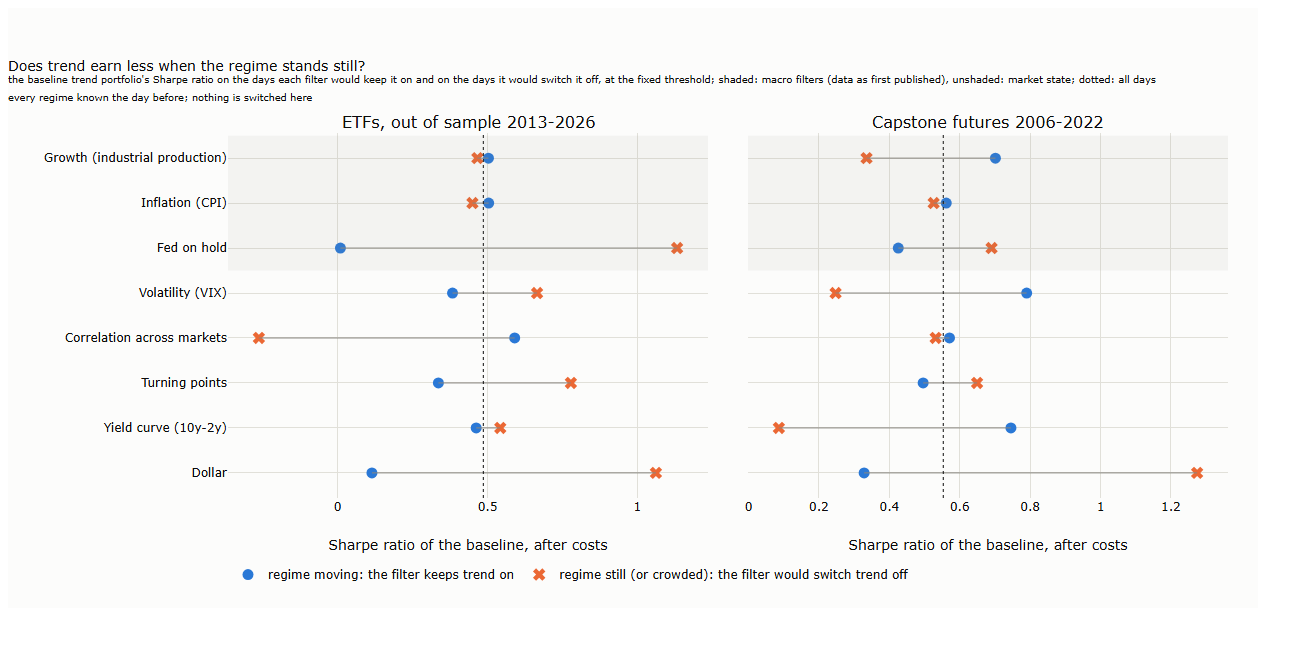
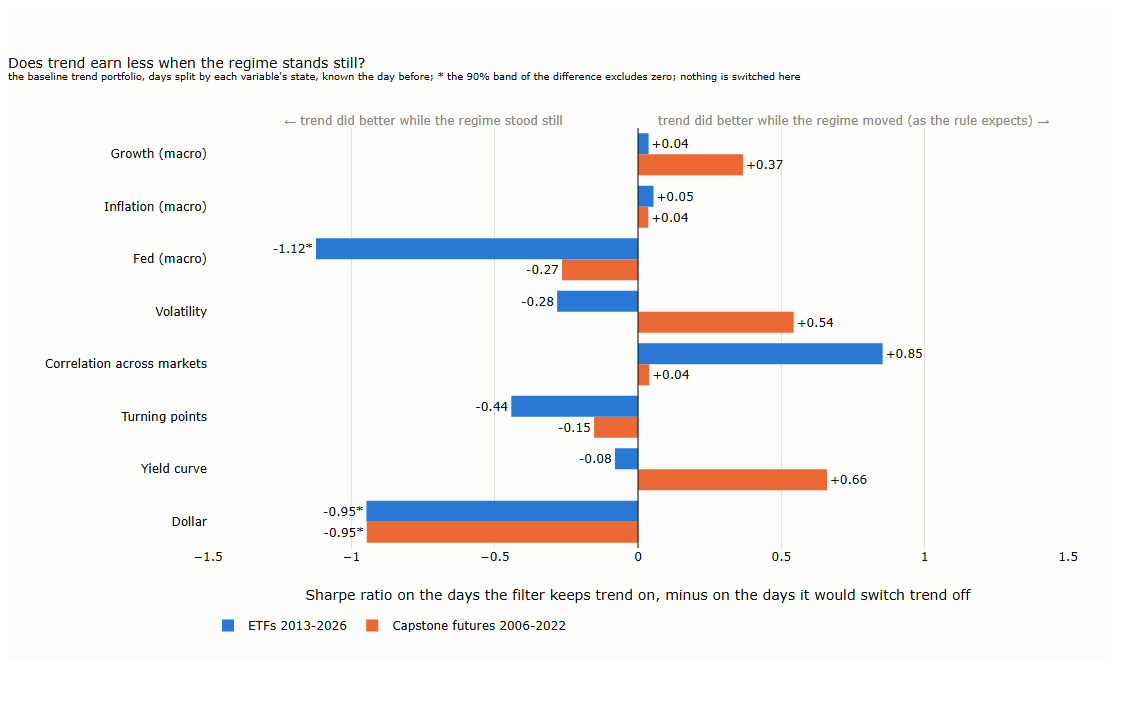
L28: scan, filter and clock charts simplified (plain bars; one-crisis volatility clock); captions and reading guide to match

diff --git a/lectures/28-part-time-strategies/scripts/l28_charts.py b/lectures/28-part-time-strategies/scripts/l28_charts.py
@@ -1,0 +1,81 @@
+"""Lecture 28, simple result charts read from the saved results (run l28_scan.py, l28_filters.py first):
+  28_scan.png    §4: per variable, Sharpe ratio while the regime moves minus while it stands still; ETFs and futures; star = 90% band excludes zero.
+  28_filters.png §5: per filter, the share of its 1,000 random switches (same time in the market) it beats; lines at 50% and 90%.
+  28_clock.png   §6.3: the volatility quadrants as a clock, with the 2008-2009 crisis month by month."""
+import json, sys
+from pathlib import Path
+import numpy as np, pandas as pd
+import plotly.graph_objects as go
+sys.path.insert(0, str(Path(__file__).resolve().parent)); import l28 as L
+from l28_filters import FAMILIES, KIND, LEVELS, FIXED, NAMES
+from l28_regime_charts import series
+from trading_models.plotting import INK, MUTED, SERIES, apply_theme, save_figure
+L26 = L.L26
+DS = (("etf", "ETFs 2013-2026", SERIES[0]), ("futures", "Capstone futures 2006-2022", SERIES[1]))
+
+
+def scan():
+    S = json.loads((L.RESULTS / "scan.json").read_text(encoding="utf-8"))
+    rows = (("growth", "Growth (macro)"), ("inflation", "Inflation (macro)"), ("fed", "Fed (macro)"), ("volatility", "Volatility"),
+            ("correlation", "Correlation across markets"), ("turning", "Turning points"), ("curve", "Yield curve"), ("dollar", "Dollar"))
+    fig = go.Figure()
+    for tag, name, col in DS:
+        d = [S[tag][k]["diff"] for k, _ in rows]
+        star = ["*" if (S[tag][k]["ci90"][0] > 0 or S[tag][k]["ci90"][1] < 0) else "" for k, _ in rows]
+        fig.add_bar(y=[n for _, n in rows], x=d, orientation="h", name=name, marker_color=col, text=[f"{v:+.2f}{s}" for v, s in zip(d, star)],
+                    textposition="outside", textfont=dict(color=INK, size=12))
+    fig.add_vline(x=0, line=dict(color=INK, width=1))
+    fig.add_annotation(x=0.75, y=1.04, yref="paper", text="trend did better while the regime moved (as the rule expects) →", showarrow=False, font=dict(color=MUTED, size=12))
+    fig.add_annotation(x=-0.75, y=1.04, yref="paper", text="← trend did better while the regime stood still", showarrow=False, font=dict(color=MUTED, size=12))
+    fig.update_yaxes(autorange="reversed")
+    fig.update_xaxes(title_text="Sharpe ratio on the days the filter keeps trend on, minus on the days it would switch trend off", range=[-1.5, 1.5])
+    fig.update_layout(title="Does trend earn less when the regime stands still?<br><sup>the baseline trend portfolio, days split by each variable's state, known the day before; "
+                            "* the 90% band of the difference excludes zero; nothing is switched here</sup>",
+                      barmode="group", height=650, width=1100, margin=dict(t=120, l=200, r=40, b=110), legend=dict(orientation="h", y=-0.15, x=0))
+    save_figure(fig, L.PREFIX + "28_scan", L.FIG)
+
+
+def filters():
+    F = json.loads((L.RESULTS / "filters.json").read_text(encoding="utf-8")); fx = lambda k: LEVELS[KIND[k]][FIXED] if k in KIND else "third"
+    ks = [k for v in FAMILIES.values() for k in v]; lab = [NAMES[k] for k in ks]
+    fig = go.Figure()
+    for tag, name, col in DS:
+        b = [F["datasets"][tag][k][fx(k)]["beaten"] for k in ks]
+        fig.add_bar(y=lab, x=b, orientation="h", name=name, marker_color=col, text=[f"{v:.0%}" for v in b], textposition="outside", textfont=dict(color=INK, size=12))
+    fig.add_vline(x=0.5, line=dict(color=MUTED, width=1.5, dash="dot")); fig.add_vline(x=0.9, line=dict(color=INK, width=1.5, dash="dash"))
+    fig.add_annotation(x=0.5, y=1.03, yref="paper", text="a coin: 50%", showarrow=False, font=dict(color=MUTED, size=12))
+    fig.add_annotation(x=0.9, y=1.03, yref="paper", text="the bar to clear: 90%", showarrow=False, font=dict(color=INK, size=12))
+    fig.update_yaxes(autorange="reversed")
+    fig.update_xaxes(title_text="share of 1,000 random switches (same time in the market) that the filter beats", tickformat=".0%", range=[0, 1.08])
+    fig.update_layout(title="Regime filters against luck<br><sup>a filter works if it clears 90% on both datasets and passes the multiple-testing correction; none does</sup>",
+                      barmode="group", height=780, width=1100, margin=dict(t=120, l=200, r=40, b=110), legend=dict(orientation="h", y=-0.1, x=0))
+    save_figure(fig, L.PREFIX + "28_filters", L.FIG)
+
+
+def clock():
+    B = pd.read_parquet(L.OUT / "l28_base.parquet"); base = B["futures"].dropna().loc[L.FUT_START:L.END["futures"]]
+    l, avg, ch, q = series("futures", "volatility", base); x = np.log(l / avg)
+    WORDS = {"below rising": "Calm, nerves building", "above rising": "Stress building", "above falling": "Stress fading", "below falling": "Calm, getting calmer"}
+    e = pd.DataFrame({"x": x, "y": ch}).loc["2008-06-01":"2009-12-31"].resample("ME").last()
+    mx, my = 1.35, 1.2; fig = go.Figure()
+    for s, w in WORDS.items():
+        sr, sh = L26.sharpe(base.ret[q == s]), float((q == s).mean())
+        x0, x1 = (0, mx) if s.startswith("above") else (-mx, 0); y0, y1 = (0, my) if s.endswith("rising") else (-my, 0)
+        fig.add_shape(type="rect", x0=x0, x1=x1, y0=y0, y1=y1, fillcolor=SERIES[0], opacity=max(min(sr / 1.6, 1), 0.05) * 0.4, line_width=0, layer="below")
+        fig.add_annotation(x=(x0 + x1) / 2, y=(y1 * 0.84 if y1 > 0 else y0 * 0.84), text=f"<b>{w}</b><br>trend's Sharpe ratio {sr:.2f} · {sh:.0%} of days",
+                           showarrow=False, font=dict(size=13, color=INK))
+    fig.add_scatter(x=e.x, y=e.y, mode="lines+markers", line=dict(color=INK, width=2.5), marker=dict(size=10, color=INK, symbol="arrow", angleref="previous"),
+                    name="the VIX month by month, June 2008 to December 2009", text=e.index.strftime("%b %Y"), hovertemplate="%{text}<extra></extra>")
+    for d in ("2008-06-30", "2008-10-31", "2009-03-31", "2009-12-31"):
+        fig.add_annotation(x=e.x[d], y=e.y[d], text=pd.Timestamp(d).strftime("%b %Y"), showarrow=False, yshift=15, font=dict(size=12, color=INK),
+                           bgcolor="rgba(255,255,255,0.7)")
+    fig.add_hline(y=0, line=dict(color=INK, width=1)); fig.add_vline(x=0, line=dict(color=INK, width=1))
+    fig.update_xaxes(title_text="← VIX below its average to date  ·  above its average →", range=[-mx, mx], showticklabels=False, zeroline=False, showgrid=False)
+    fig.update_yaxes(title_text="← VIX falling over 3 months  ·  rising →", range=[-my, my], showticklabels=False, zeroline=False, showgrid=False)
+    fig.update_layout(title="The volatility clock: a crisis runs clockwise<br><sup>capstone futures 2006-2022; tint: trend's Sharpe ratio in each quadrant (darker = higher); "
+                            "both known the day before</sup>", height=720, width=900, margin=dict(t=90, l=70, r=30, b=100), legend=dict(orientation="h", y=-0.08, x=0))
+    save_figure(fig, L.PREFIX + "28_clock", L.FIG)
+
+
+if __name__ == "__main__":
+    apply_theme(); scan(); filters(); clock()

diff --git a/lectures/28-part-time-strategies/scripts/l28_regime_charts.py b/lectures/28-part-time-strategies/scripts/l28_regime_charts.py
@@ -1,4 +1,4 @@
-"""Lecture 28, §6 graphics (prototypes): the regime clock and the regime timeline for the four volatility and correlation quadrants.
+"""Lecture 28, §6.3: the regime timeline (the clock is in l28_charts.py) for the four volatility and correlation quadrants.
 Clock: x = level against its own average to date (log ratio), y = 3-month change; monthly path of the market through the quadrants, each
 quadrant tinted by the trend portfolio's Sharpe ratio on its days. Timeline: the level with its average to date and the quadrant as a ribbon,
 and the trend portfolio's cumulative return on the same shading. Same quadrant definition as l28_quadrants.py (both known the day before).
@@ -34,33 +34,6 @@ if __name__ == "__main__":
     apply_theme(); B = pd.read_parquet(L.OUT / "l28_base.parquet"); tag = "futures"; base = B[tag].dropna().loc[L.FUT_START:L.END[tag]]
     LABEL = {"volatility": ("VIX", "VIX level against its average to date (log ratio)", "3-month change of the VIX (log)"),
              "correlation": ("correlation", "correlation against its average to date (log ratio)", "3-month change of the correlation")}
-    # ---- regime clock
-    fig = make_subplots(rows=1, cols=2, horizontal_spacing=0.09, subplot_titles=("Volatility (VIX)", "Correlation across markets"))
-    for c, k in enumerate(("volatility", "correlation")):
-        l, avg, ch, q = series(tag, k, base); x = np.log(l / avg); S = {s: L26.sharpe(base.ret[q == s]) for s in QCOL}; sh = {s: float((q == s).mean()) for s in QCOL}
-        mx, my = float(np.nanmax(np.abs(x))) * 1.08, float(np.nanmax(np.abs(ch))) * 1.08
-        for s in QCOL:
-            x0, x1 = (0, mx) if s.startswith("above") else (-mx, 0); y0, y1 = (0, my) if s.endswith("rising") else (-my, 0)
-            col = SERIES[0] if S[s] > 0 else SERIES[1]; op = min(abs(S[s]) / 1.5, 1) * 0.35
-            fig.add_shape(type="rect", x0=x0, x1=x1, y0=y0, y1=y1, fillcolor=col, opacity=op, line_width=0, layer="below", row=1, col=c + 1)
-            fig.add_annotation(x=(x0 + x1) / 2, y=y1 * 0.88 if y1 > 0 else y0 * 0.88, text=f"<b>{s.replace(' ', ', ')}</b><br>Sharpe {S[s]:.2f} · {sh[s]:.0%} of days",
-                               showarrow=False, font=dict(size=12, color=INK), bgcolor="rgba(255,255,255,0.7)", row=1, col=c + 1)
-        m = pd.DataFrame({"x": x, "y": ch}).resample("ME").last().dropna()
-        fig.add_scatter(x=m.x, y=m.y, mode="markers", marker=dict(size=5, color=MUTED, opacity=0.45), text=m.index.strftime("%b %Y"),
-                        hovertemplate="%{text}<extra></extra>", name="every month end 2006-2022", legendgroup="m", showlegend=(c == 0), row=1, col=c + 1)
-        for (a, b, n), dash in zip(PATHS, ("solid", "dash")):
-            e = pd.DataFrame({"x": x, "y": ch}).loc[a:b].resample("ME").last().dropna()
-            fig.add_scatter(x=e.x, y=e.y, mode="lines+markers", line=dict(color=INK, width=2, dash=dash), marker=dict(size=7, color=INK, symbol="arrow", angleref="previous"),
-                            name=n, legendgroup=n, showlegend=(c == 0), text=e.index.strftime("%b %Y"), hovertemplate="%{text}<extra></extra>", row=1, col=c + 1)
-            for d in (e.index[0], e.index[-1]):
-                fig.add_annotation(x=e.x[d], y=e.y[d], text=d.strftime("%b %Y"), showarrow=False, yshift=12, font=dict(size=11, color=INK), row=1, col=c + 1)
-        fig.add_hline(y=0, line=dict(color=INK, width=1), row=1, col=c + 1); fig.add_vline(x=0, line=dict(color=INK, width=1), row=1, col=c + 1)
-        fig.update_xaxes(title_text=LABEL[k][1], range=[-mx, mx], zeroline=False, row=1, col=c + 1)
-        fig.update_yaxes(title_text=LABEL[k][2], range=[-my, my], zeroline=False, row=1, col=c + 1)
-    fig.update_layout(title="The regime clock: where the market was, and what trend earned there<br><sup>capstone futures 2006-2022; grey dots: every month end; black: two crises month by month (arrows point forward in time); "
-                            "quadrant tint: the trend portfolio's Sharpe ratio after costs on the quadrant's days (blue positive, orange negative, stronger = larger)</sup>",
-                      height=700, width=1300, margin=dict(t=100, l=70, r=40, b=120), legend=dict(orientation="h", y=-0.15, x=0))
-    save_figure(fig, L.PREFIX + "28_clock", L.FIG)
     # ---- regime timeline
     fig = make_subplots(rows=4, cols=1, shared_xaxes=True, vertical_spacing=0.05, row_heights=[0.22, 0.28, 0.22, 0.28],
                         subplot_titles=("Volatility: VIX (21-day average), coloured by quadrant; dotted: its average to date",

diff --git a/lectures/28-part-time-strategies/scripts/l28_scan.py b/lectures/28-part-time-strategies/scripts/l28_scan.py
@@ -47,23 +47,4 @@ if __name__ == "__main__":
         print(tag, "quadrants first published:", {s: (round(v["share"], 2), round(v["sharpe"], 2)) for s, v in out[tag]["quadrant_first_published"].items()})
         print(tag, "quadrants revised:", {s: (round(v["share"], 2), round(v["sharpe"], 2)) for s, v in out[tag]["quadrant_revised"].items()}, "| days in a different quadrant:", round(out[tag]["quadrant_disagreement"], 2))
     (L.RESULTS / "scan.json").write_text(json.dumps(out, indent=1), encoding="utf-8")
-    # chart: per variable, Sharpe while off and while on, both datasets
-    rows = [(k, n) for k, n in MACRO] + [(k, n) for k, n in MARKET]
-    fig = make_subplots(rows=1, cols=2, shared_yaxes=True, horizontal_spacing=0.04, subplot_titles=("ETFs, out of sample 2013-2026", "Capstone futures 2006-2022"))
-    for c, tag in enumerate(("etf", "futures")):
-        S = out[tag]; lab = [n for _, n in rows]
-        fig.add_scatter(x=[S[k]["sharpe_on"] for k, _ in rows], y=lab, mode="markers", marker=dict(color=SERIES[0], size=11), name="regime moving: the filter keeps trend on",
-                        legendgroup="on", showlegend=c == 0, row=1, col=c + 1)
-        fig.add_scatter(x=[S[k]["sharpe_off"] for k, _ in rows], y=lab, mode="markers", marker=dict(color=SERIES[1], size=11, symbol="x"), name="regime still (or crowded): the filter would switch trend off",
-                        legendgroup="off", showlegend=c == 0, row=1, col=c + 1)
-        for k, n in rows:
-            fig.add_shape(type="line", x0=S[k]["sharpe_off"], x1=S[k]["sharpe_on"], y0=n, y1=n, line=dict(color=MUTED, width=1), row=1, col=c + 1)
-        fig.add_vline(x=L26.sharpe(B[tag].dropna().loc[(L.ETF_START if tag == "etf" else L.FUT_START):L.END[tag]].ret), line=dict(color=INK, width=1, dash="dot"), row=1, col=c + 1)
-        fig.update_xaxes(title_text="Sharpe ratio of the baseline, after costs", row=1, col=c + 1)
-    fig.add_hrect(y0=-0.5, y1=2.5, fillcolor=MUTED, opacity=0.08, line_width=0, row=1, col=1); fig.add_hrect(y0=-0.5, y1=2.5, fillcolor=MUTED, opacity=0.08, line_width=0, row=1, col=2)
-    fig.update_yaxes(autorange="reversed", row=1, col=1)
-    fig.update_layout(title="Does trend earn less when the regime stands still?<br><sup>the baseline trend portfolio's Sharpe ratio on the days each filter would keep it on "
-                            "and on the days it would switch it off, at the fixed threshold; shaded: macro filters (data as first published), unshaded: market state; "
-                            "dotted: all days<br>every regime known the day before; nothing is switched here</sup>",
-                      height=600, width=1250, margin=dict(t=125, l=220, r=30, b=110), legend=dict(orientation="h", y=-0.17, x=0))
-    save_figure(fig, L.PREFIX + "28_scan", L.FIG)
+    # chart: l28_charts.py

diff --git a/lectures/28-part-time-strategies/scripts/l28_filters.py b/lectures/28-part-time-strategies/scripts/l28_filters.py
@@ -112,23 +112,4 @@ if __name__ == "__main__":
                                        works=bool(ok[k] and all(out["datasets"][t][k][fx(k)]["beaten"] >= 0.9 for t in ("etf", "futures")))) for k in ks}
     print(json.dumps(out["verdict"], indent=1))
     (L.RESULTS / "filters.json").write_text(json.dumps(out, indent=1, default=float), encoding="utf-8")
-    # chart: each filter's Sharpe ratio against its random filters (median and 95th percentile), both datasets
-    ks = [k for ks in FAMILIES.values() for k in ks]; lab = [NAMES[k] for k in ks]
-    fig = make_subplots(rows=1, cols=2, shared_yaxes=True, horizontal_spacing=0.04, subplot_titles=("ETFs, out of sample 2013-2026", "Capstone futures 2006-2022"))
-    for c, tag in enumerate(("etf", "futures")):
-        D = out["datasets"][tag]
-        for k, n in zip(ks, lab):
-            m = D[k][fx(k)]; fig.add_shape(type="line", x0=m["random_median"], x1=m["random_p95"], y0=n, y1=n, line=dict(color=MUTED, width=6), row=1, col=c + 1)
-        fig.add_scatter(x=[D[k][fx(k)]["random_median"] for k in ks], y=lab, mode="markers", marker=dict(color=MUTED, size=9, symbol="line-ns-open", line=dict(width=2)),
-                        name="random filters with the same time in the market: median (tick) to 95th percentile (bar)", legendgroup="r", showlegend=c == 0, row=1, col=c + 1)
-        fig.add_scatter(x=[D[k][fx(k)]["sharpe"] for k in ks], y=lab, mode="markers", marker=dict(color=SERIES[0], size=11), name="the filter",
-                        legendgroup="f", showlegend=c == 0, row=1, col=c + 1)
-        fig.add_vline(x=D["baseline"]["sharpe"], line=dict(color=INK, width=1, dash="dot"), row=1, col=c + 1)
-        fig.update_xaxes(title_text="Sharpe ratio after costs, all days", row=1, col=c + 1)
-    for c in (1, 2): fig.add_hrect(y0=-0.5, y1=3.5, fillcolor=MUTED, opacity=0.08, line_width=0, row=1, col=c); fig.add_hrect(y0=9.5, y1=11.5, fillcolor=SERIES[0], opacity=0.05, line_width=0, row=1, col=c)
-    fig.update_yaxes(autorange="reversed", row=1, col=1)
-    fig.update_layout(title="Regime filters as switches, against luck<br><sup>each filter switches the baseline trend portfolio off in its regime (known the day before), "
-                            "a tenth of the way each day, 5 bp per change; grey: 1,000 random switches with the same time in the market and the same spell lengths; "
-                            "dotted: always in<br>shaded: macro filters (top), both families (bottom); fixed thresholds</sup>",
-                      height=650, width=1250, margin=dict(t=125, l=200, r=30, b=110), legend=dict(orientation="h", y=-0.15, x=0))
-    save_figure(fig, L.PREFIX + "28_filters", L.FIG)
+    # chart: l28_charts.py

diff --git a/lectures/28-part-time-strategies/lecture.md b/lectures/28-part-time-strategies/lecture.md
@@ -156,7 +156,7 @@ On revised data the futures' best quadrant moves from "growth down, inflation up
 Before switching anything, the scan splits the baseline's days by each variable's state and compares the Sharpe ratio on the two sides. Nothing is traded; the scan shows whether there is anything for a switch to find.
 
 ![The regime scan](figures/28_scan.png)
-<sub><b>How to read the figure.</b> <b>Axes.</b> x: the baseline trend portfolio's Sharpe ratio after costs; y: one row per regime variable (shaded: macro, data as first published; unshaded: market state). Blue dot: the days the filter would keep trend on (regime moving); orange cross: the days it would switch trend off (regime still; for correlation and turning points, crowded and turning); dotted: all days. Left: ETFs 2013-2026; right: capstone futures 2006-2022. Fixed thresholds; every regime known the day before. Our calculation.</sub>
+<sub><b>How to read the figure.</b> <b>Axes.</b> y: one row per regime variable (the first three macro, on data as first published; the rest market state); x: the baseline trend portfolio's Sharpe ratio after costs on the days the filter would keep trend on, minus on the days it would switch trend off. A bar to the right means trend did better while the regime moved, as the rule expects; to the left, while it stood still (for correlation and turning points: while markets were not crowded and turning). Blue: ETFs 2013-2026; orange: capstone futures 2006-2022. Star: the 90% band of the difference (block bootstrap over months) excludes zero. Fixed thresholds; every regime known the day before. Our calculation.</sub>
 
 **Result.** No variable separates the days in the planned direction on both datasets with a 90% band (block bootstrap over months) that excludes zero. Two separate in the **opposite** direction:
 
@@ -172,7 +172,7 @@ The yield curve goes the planned way on the futures (still 0.09, moving 0.75; ba
 Each filter now switches the baseline off in its unfavourable state, with the costs and the gradual attachment of §1, and is judged by the six numbers of §2.
 
 ![Regime filters against random filters](figures/28_filters.png)
-<sub><b>How to read the figure.</b> <b>Axes.</b> x: Sharpe ratio after costs over all days; y: one row per filter (shaded top: macro; middle: market state; shaded bottom: both families). Blue dot: the filter at its fixed threshold. Grey: 1,000 random filters with the same time in the market and the same spell lengths, from their median (tick) to their 95th percentile (end of the bar). Dotted: always in. Left: ETFs 2013-2026; right: capstone futures 2006-2022. Our calculation.</sub>
+<sub><b>How to read the figure.</b> <b>Axes.</b> y: one row per filter (macro first, then market state, then the two combinations of both families); x: the share of 1,000 random switches, with the same time in the market and the same spell lengths, whose Sharpe ratio after costs the filter beats. Blue: ETFs 2013-2026; orange: capstone futures 2006-2022. Dotted line: 50%, what a coin would do; dashed line: 90%, the bar fixed in advance, to be cleared on both datasets. Fixed thresholds. Our calculation.</sub>
 
 **Verdict (as fixed): no filter works.** None beats 90% of its random filters on both datasets, and none passes Benjamini-Hochberg at 10% within its family.
 
@@ -227,25 +227,22 @@ Five fifths and two directions make ten cells, some with almost no days. Four qu
 
 <sub><b>How to read the table.</b> One row per quadrant; each cell describes in market terms what the quadrant means for volatility (VIX) or for the average correlation across the portfolio's markets. Our wording.</sub>
 
-Two charts show the quadrants: the **regime clock** shows where the market was and what trend earned there; the **regime timeline** shows when. Both use the capstone futures.
+Two charts show the quadrants: the **volatility clock** shows how a crisis moves through them; the **regime timeline** shows when each quadrant occurred and where trend earned. Both use the capstone futures.
 
-**The regime clock.**
+**The volatility clock.**
 
-![The regime clock](figures/28_clock.png)
-<sub><b>How to read the figure.</b> <b>Axes.</b> x: how far the level is above (right) or below (left) its own average to date, as a log ratio (0.5 means about 65% above); y: how much it changed over the past three months (up: rising, down: falling). Left: volatility (VIX); right: correlation across markets. Grey dots: every month end 2006-2022. Black lines: two crises month by month, arrows pointing forward in time (solid: June 2008 to December 2009; dashed: 2020). Tint of each quadrant: the trend portfolio's Sharpe ratio after costs on that quadrant's days (blue: positive; orange: negative; stronger: larger), written in its corner with the share of days. Our calculation.</sub>
+![The volatility clock](figures/28_clock.png)
+<sub><b>How to read the figure.</b> <b>Axes.</b> x: the VIX below (left) or above (right) its own average to date; y: the VIX falling (down) or rising (up) over the past three months. Each quadrant is named in plain words and shows the trend portfolio's Sharpe ratio after costs on its days, 2006-2022, and its share of days; a darker tint means a higher Sharpe ratio. Black line: the VIX month by month from June 2008 to December 2009, arrows pointing forward in time. Both coordinates known the day before. Our calculation.</sub>
 
 | Step | Look at | What it tells you |
 |---|---|---|
-| 1 | One dot | Where the market stood at one month end: right of the vertical line, the level was above its usual; above the horizontal line, it was climbing |
-| 2 | The cloud of grey dots | Where the market usually is: most months sit near the centre, slightly left (calm is the normal state) |
-| 3 | The tint and the corner labels | What trend earned in each quadrant over the whole sample; the share of days shows how much evidence each number rests on |
-| 4 | A black path, following the arrows | How one episode moved through the quadrants, month by month |
+| 1 | The four quadrant names | The four states of the market's nerves, from calm to stress and back |
+| 2 | The number in each quadrant | What trend earned in that state over the whole sample, and how much evidence it rests on (share of days) |
+| 3 | The black line, following the arrows | How one crisis moved through the states, month by month |
 
-Following the solid path for volatility: in mid-2008 the VIX sits near its average; by October 2008 it is far above and still climbing (top right); through 2009 it stays high but falls (bottom right); by the end of 2009 it is back near the centre. The dashed 2020 path makes the same loop faster, starting from calm (top left). A crisis runs **clockwise**: building, peak, fading, calm. *Analogy (labelled):* the chart is what physicists call a phase portrait, the position of a system against its speed; a variable that swings up and back down traces a clockwise loop in it, as a pendulum does. Trend earned most on the "fading" leg (1.56), after the positions built during the shock had turned in its direction.
+In June 2008 the VIX sits near its average. By October 2008 it is far above and still climbing (top right, stress building). Through 2009 it stays high but falls (bottom right, stress fading), and by December 2009 it is back near the centre. A crisis runs **clockwise**: building, peak, fading, calm. *Analogy (labelled):* the chart is what physicists call a phase portrait, the position of a system against its speed; a variable that swings up and back down traces a clockwise loop in it, as a pendulum does. Trend earned most in "stress fading" (1.56), after the positions built during the shock had turned in its direction.
 
-The correlation panel looks different: in 2008-2009 the path stays on the right, correlation remains high for months, while in 2020 it crosses the centre quickly. The two variables do not cycle together.
-
-What the clock cannot show: how long each visit lasted (each month is one dot, whatever happened within it), and whether the tint would hold on other years (§6.4 checks this).
+What the clock cannot show: how long each visit lasted, and whether the numbers would hold on other years (§6.4 checks this).
 
 **The regime timeline.**
 
